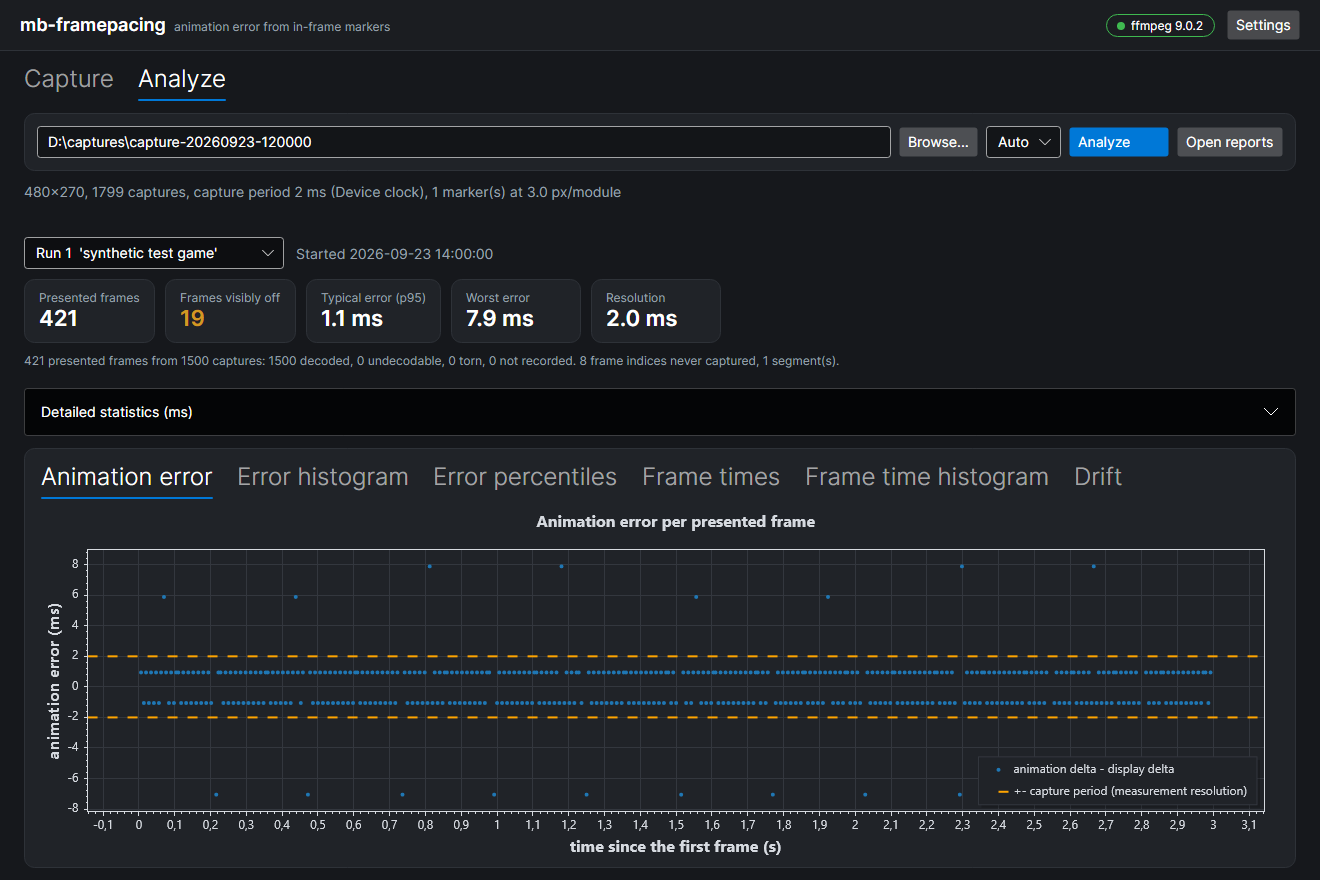
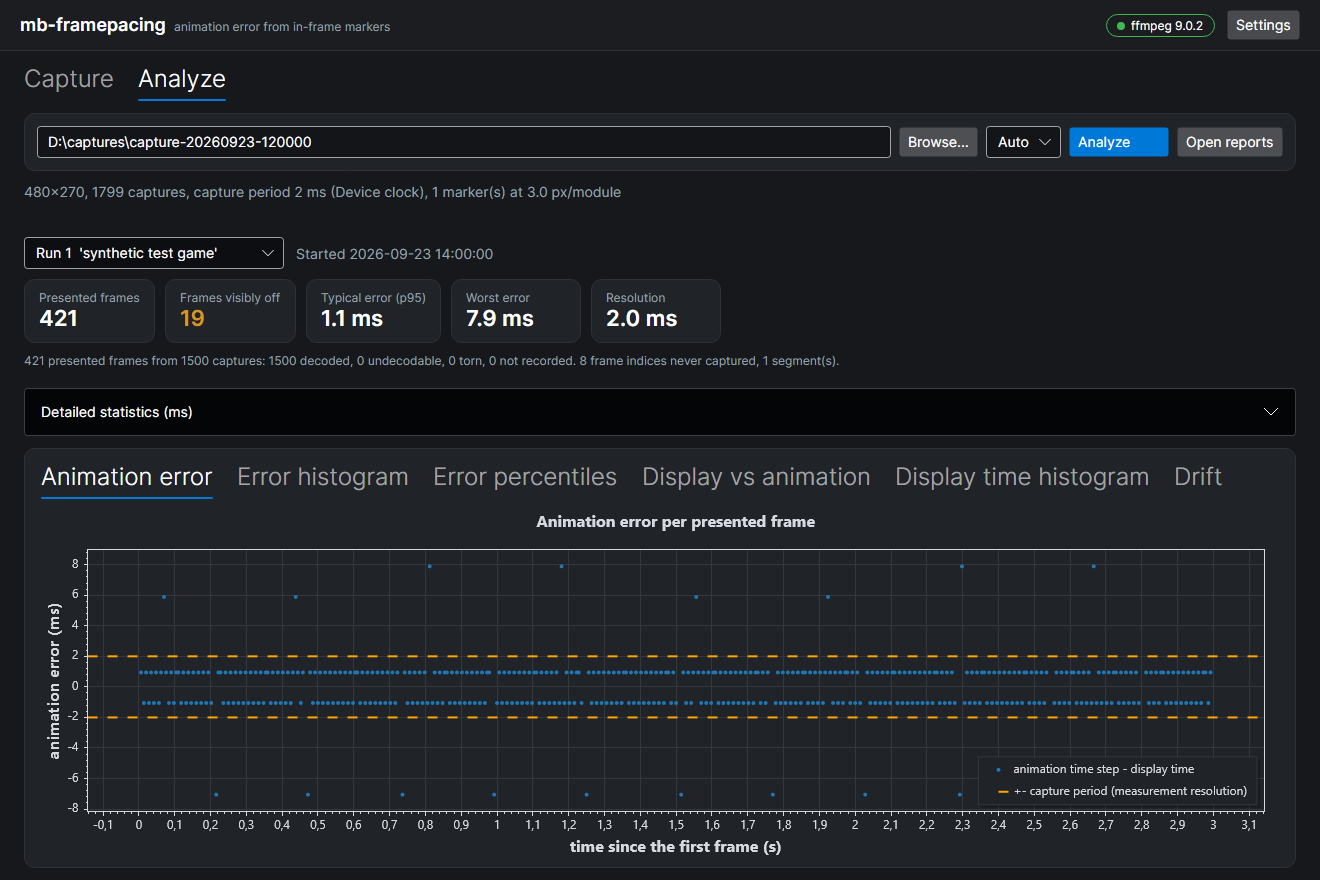
Docs and GUI: PresentMon / Gamers Nexus vocabulary
- doc/vocabulary.md maps the terms used here (animation error, animation
  time step, display time, on-screen time, ...) to their other names in
  PresentMon, Gamers Nexus, engines and video, with the sources.
- "Display delta" is now "display time" and "animation delta" is now
  "animation time step" in the GUI and the analyze table. The frame time
  histogram is now the display time histogram, because PresentMon and
  Gamers Nexus keep "frame time" for the CPU side.
- README: the two ways animation error happens (the flipbook), and a
  link to the vocabulary.

Changed region(s): [[0.497, 0.5216, 0.9318, 0.5523], [0.8076, 0.8591, 0.9008, 0.8898]]

diff --git a/measure/app/FramePacing.Gui/source/Views/AnalysisView.axaml.cs b/measure/app/FramePacing.Gui/source/Views/AnalysisView.axaml.cs
@@ -62,7 +62,7 @@ namespace MB.FramePacing.Gui.Views
         var errors = ErrorPlot.Plot.Add.Scatter(times, withMetrics.Select(f => Ms(f.AnimationErrorTicks!.Value)).ToArray());
         errors.LineWidth = 0;
         errors.MarkerSize = 4;
-        errors.LegendText = "animation delta - display delta";
+        errors.LegendText = "animation time step - display time";
         double resolution = run!.CapturePeriodMs;
         var bandColor = ScottPlot.Colors.Orange;
         var upper = ErrorPlot.Plot.Add.HorizontalLine(resolution, color: bandColor, pattern: ScottPlot.LinePattern.Dashed);
@@ -110,31 +110,36 @@ namespace MB.FramePacing.Gui.Views
       }
       Finish(ErrorPercentilePlot, plot => plot.Axes.SetLimitsX(0, 100));
 
-      // Display delta vs animation delta
-      Reset(FrameTimePlot, "Frame times", "ms");
+      // Display time vs animation time step: their difference is the animation error
+      Reset(DisplayAnimationPlot, "Display time vs animation time step", "ms");
       if (withMetrics.Length > 0)
       {
-        var display = FrameTimePlot.Plot.Add.Scatter(times, withMetrics.Select(f => Ms(f.DisplayDeltaTicks!.Value)).ToArray());
-        display.LegendText = "display delta (captured)";
+        var display = DisplayAnimationPlot.Plot.Add.Scatter(times, withMetrics.Select(f => Ms(f.DisplayDeltaTicks!.Value)).ToArray());
+        display.LegendText = "display time (captured)";
         display.MarkerSize = 3;
-        var animation = FrameTimePlot.Plot.Add.Scatter(times, withMetrics.Select(f => Ms(f.AnimationDeltaTicks!.Value)).ToArray());
-        animation.LegendText = "animation delta (marker)";
+        var animation = DisplayAnimationPlot.Plot.Add.Scatter(times, withMetrics.Select(f => Ms(f.AnimationDeltaTicks!.Value)).ToArray());
+        animation.LegendText = "animation time step (marker)";
         animation.MarkerSize = 3;
-        FrameTimePlot.Plot.ShowLegend();
+        DisplayAnimationPlot.Plot.ShowLegend();
       }
-      Finish(FrameTimePlot);
+      Finish(DisplayAnimationPlot);
 
       // How long frames stayed on screen: steady pacing is one tall bar, stutter shows up as bars at multiples of it
-      Reset(FrameTimeHistogramPlot, "Frame time distribution (captured display delta)", "presented frames (log scale)", "display delta (ms)");
+      Reset(
+        DisplayTimeHistogramPlot,
+        "Display time distribution (how long each frame stayed on screen)",
+        "presented frames (log scale)",
+        "display time (ms)"
+      );
       if (histograms != null && histograms.DisplayDeltaMs.Total > 0)
       {
-        AddLogBars(FrameTimeHistogramPlot, histograms.DisplayDeltaMs);
+        AddLogBars(DisplayTimeHistogramPlot, histograms.DisplayDeltaMs);
         double median = run!.Run.Statistics.DisplayDeltaMs.P50;
-        var line = FrameTimeHistogramPlot.Plot.Add.VerticalLine(median, color: ScottPlot.Colors.Orange, pattern: ScottPlot.LinePattern.Dashed);
+        var line = DisplayTimeHistogramPlot.Plot.Add.VerticalLine(median, color: ScottPlot.Colors.Orange, pattern: ScottPlot.LinePattern.Dashed);
         line.LegendText = $"median {median:0.##} ms";
-        FrameTimeHistogramPlot.Plot.ShowLegend();
+        DisplayTimeHistogramPlot.Plot.ShowLegend();
       }
-      Finish(FrameTimeHistogramPlot, plot => plot.Axes.SetLimitsX(0, plot.Axes.GetLimits().Right));
+      Finish(DisplayTimeHistogramPlot, plot => plot.Axes.SetLimitsX(0, plot.Axes.GetLimits().Right));
 
       // Cumulative drift
       Reset(DriftPlot, "Cumulative drift (animation time - display time)", "drift (ms)");

diff --git a/measure/app/FramePacing/source/Commands/AnalyzeCommand.cs b/measure/app/FramePacing/source/Commands/AnalyzeCommand.cs
@@ -107,8 +107,8 @@ namespace MB.FramePacing.App.Commands
           .AddColumn(new TableColumn("p99").RightAligned())
           .AddColumn(new TableColumn("max").RightAligned())
           .AddColumn(new TableColumn("stddev").RightAligned());
-        AddRow(table, "Display delta", s.DisplayDeltaMs);
-        AddRow(table, "Animation delta", s.AnimationDeltaMs);
+        AddRow(table, "Display time", s.DisplayDeltaMs);
+        AddRow(table, "Animation time step", s.AnimationDeltaMs);
         AddRow(table, "Animation error", s.AnimationErrorMs);
         AddRow(table, "|Animation error|", s.AbsoluteAnimationErrorMs);
         AddRow(table, "Drift", s.DriftMs);

diff --git a/measure/app/FramePacing.Gui/source/ViewModels/RunViewModel.cs b/measure/app/FramePacing.Gui/source/ViewModels/RunViewModel.cs
@@ -35,8 +35,8 @@ namespace MB.FramePacing.Gui.ViewModels
       ResolutionText = capturePeriodMs.ToString("0.0 'ms'", CultureInfo.InvariantCulture);
       Statistics = new List<StatisticsRow>
       {
-        StatisticsRow.From("Display delta", s.DisplayDeltaMs),
-        StatisticsRow.From("Animation delta", s.AnimationDeltaMs),
+        StatisticsRow.From("Display time", s.DisplayDeltaMs),
+        StatisticsRow.From("Animation time step", s.AnimationDeltaMs),
         StatisticsRow.From("Animation error", s.AnimationErrorMs),
         StatisticsRow.From("|Animation error|", s.AbsoluteAnimationErrorMs),
         StatisticsRow.From("Drift", s.DriftMs),

diff --git a/measure/tools/DocImages/source/Program.cs b/measure/tools/DocImages/source/Program.cs
@@ -98,7 +98,7 @@ namespace MB.FramePacing.DocImages
         {
           ("ErrorHistogramPlot", "chart-error-histogram.png"),
           ("ErrorPercentilePlot", "chart-error-percentiles.png"),
-          ("FrameTimeHistogramPlot", "chart-frame-time-histogram.png"),
+          ("DisplayTimeHistogramPlot", "chart-display-time-histogram.png"),
         }
       )
       {

diff --git a/doc/vocabulary.md b/doc/vocabulary.md
@@ -1,0 +1,58 @@
+# Vocabulary
+
+mb-framepacing uses the vocabulary of [Intel PresentMon](https://github.com/GameTechDev/PresentMon) and the
+[Gamers Nexus animation error methodology](https://gamersnexus.net/gpus-gn-extras-cpus/problem-gpu-benchmarks-reality-vs-numbers-animation-error-methodology-white),
+which this project builds on. The same ideas go by other names in engines, platform libraries and older GPU reviews. The table
+maps them, so a number from mb-framepacing can be compared with the others.
+
+## Terms
+
+| Term (as used here)     | Meaning                                                                                                                                                                                                                  | Other names                                                                                                                                                                    | Origin                                                                                                                                                                                                                                                           | In mb-framepacing                                                                              |
+| ----------------------- | ------------------------------------------------------------------------------------------------------------------------------------------------------------------------------------------------------------------------ | ------------------------------------------------------------------------------------------------------------------------------------------------------------------------------ | ---------------------------------------------------------------------------------------------------------------------------------------------------------------------------------------------------------------------------------------------------------------- | ---------------------------------------------------------------------------------------------- |
+| **Animation error**     | How far the animation time advanced between two frames shown one after the other, minus how long the first of them was on screen. Positive: shown too soon (moved too far). Negative: shown too late (moved too little). | Simulation time error (Intel's earlier name); `MsAnimationError` (PresentMon CSV)                                                                                              | [PresentMon](https://github.com/GameTechDev/PresentMon/blob/main/README-ConsoleApplication.md#csv-columns); explained by [Gamers Nexus](https://gamersnexus.net/gpus-gn-extras-cpus/problem-gpu-benchmarks-reality-vs-numbers-animation-error-methodology-white) | `animationErrorMs` (CSV), the Analyze page's error charts. Same formula and sign as PresentMon |
+| **Animation time**      | The moment of game time a frame shows, "the world at 12.345 s".                                                                                                                                                          | Simulation time, game time, animation timer; `AnimationTime` (PresentMon: usually the CPU start of the frame, or its simulation start with Reflex, XeLL or Anti-Lag 2)         | PresentMon, Gamers Nexus                                                                                                                                                                                                                                         | Written into the marker by the application (`animationTicks`); `animationMs` (CSV)             |
+| **Animation time step** | How far the animation time advanced from one shown frame to the next.                                                                                                                                                    | Delta time, `Time.deltaTime` (Unity), timestep, CPU delta (PresentMon: "the previous frame's CPU delta")                                                                       | Engines ([Unity](https://unity.com/blog/engine-platform/fixing-time-deltatime-in-unity-2020-2-for-smoother-gameplay)), PresentMon                                                                                                                                | `animationDeltaMs` (CSV)                                                                       |
+| **Display time**        | How long the previous frame stayed on screen before this one appeared.                                                                                                                                                   | Display delta, `MsBetweenDisplayChange` (PresentMon), display frame time. Overlays often call it "frame time", which PresentMon and Gamers Nexus keep for the CPU side (below) | PresentMon, Gamers Nexus                                                                                                                                                                                                                                         | `displayDeltaMs` (CSV), the display time histogram                                             |
+| **On-screen time**      | How long this frame stayed on screen.                                                                                                                                                                                    | `DisplayedTime` (PresentMon)                                                                                                                                                   | PresentMon                                                                                                                                                                                                                                                       | `onScreenMs` (CSV)                                                                             |
+| **Frametime**           | The time from the CPU starting one frame to starting the next: the application side, not the display.                                                                                                                    | `MsBetweenAppStart`, `MsBetweenPresents` (PresentMon, present to present), frame time, CPU frame time                                                                          | PresentMon, Gamers Nexus                                                                                                                                                                                                                                         | Not measured: the capture sees the display side; the animation time step stands in             |
+| **Frame pacing**        | How evenly frames reach the screen.                                                                                                                                                                                      | Frame delivery, cadence. The [Android Frame Pacing library](https://developer.android.com/games/sdk/frame-pacing) (Swappy) uses it for syncing the render loop to the display  | Common usage; Android                                                                                                                                                                                                                                            | The display time histogram                                                                     |
+| **Stutter**             | What the eye sees: motion that suddenly speeds up or slows down.                                                                                                                                                         | Judder, jerkiness, hitching                                                                                                                                                    | Common usage; Gamers Nexus describe it as visible acceleration or deceleration                                                                                                                                                                                   | Large animation errors                                                                         |
+| **Hitch**               | A single, severe frametime spike.                                                                                                                                                                                        | Spike, long frame                                                                                                                                                              | Unreal Engine (`t.HitchFrameTimeThreshold`, see [Intel's Unreal Engine guide](https://www.intel.com/content/www/us/en/developer/articles/technical/unreal-engine-optimization-profiling-fundamentals.html)), Gamers Nexus                                        | A frame with a long display time and a large negative animation error                          |
+| **Short / long frame**  | A frame shown sooner or later than the display rhythm expects. Short frames followed by long frames are seen as stutter.                                                                                                 | Frame shown too soon / too late                                                                                                                                                | [Android Frame Pacing library](https://developer.android.com/games/sdk/frame-pacing)                                                                                                                                                                             | Positive / negative animation error                                                            |
+| **Delta time jitter**   | The engine's measured delta time varies while frames reach the screen evenly, so motion shakes slightly at a steady frame rate.                                                                                          | Timestep jitter, inconsistent `Time.deltaTime`                                                                                                                                 | [Unity 2020.2](https://unity.com/blog/engine-platform/fixing-time-deltatime-in-unity-2020-2-for-smoother-gameplay)                                                                                                                                               | Animation errors while the display time is even                                                |
+| **Microstutter**        | Uneven frame delivery while the average frame rate looks fine. The term comes from multi-GPU (SLI/CrossFire) alternate frame rendering, with its "runt frames".                                                          | Micro stuttering, micro-stutter; uneven frame pacing                                                                                                                           | Multi-GPU era; [Wikipedia](https://en.wikipedia.org/wiki/Micro_stuttering), Gamers Nexus                                                                                                                                                                         | Display time spread plus alternating animation errors                                          |
+| **Runt frame**          | A frame shown for only a sliver of a refresh, so it hardly counts for the eye while raising the frame rate.                                                                                                              | Partial frame                                                                                                                                                                  | Multi-GPU testing; Gamers Nexus                                                                                                                                                                                                                                  | Torn frames (the tearing check)                                                                |
+| **Judder**              | Uneven display durations for content moving at a constant speed; also the jiggle in VR when frames miss the display.                                                                                                     | Stutter; pulldown judder (24p on 60 Hz)                                                                                                                                        | Video and film; VR ([Meta: Asynchronous Timewarp](https://developers.meta.com/horizon/blog/asynchronous-timewarp-on-oculus-rift/)); [Fora Soft](https://www.forasoft.com/learn/video-quality/articles-vqm/judder-stutter-frame-rate-artifacts)                   | Shows as a display time spread                                                                 |
+| **Dropped frame**       | A frame that was rendered but never shown.                                                                                                                                                                               | Skipped frame; PresentMon reports `DisplayedTime` as "NA"                                                                                                                      | Common usage; PresentMon                                                                                                                                                                                                                                         | `skippedBefore` (CSV), counted in the report                                                   |
+| **Drift**               | The difference between animation time and display time, accumulated over the run.                                                                                                                                        | Related: rubber-banding (Gamers Nexus: motion that stalls, then jumps ahead)                                                                                                   | mb-framepacing                                                                                                                                                                                                                                                   | `driftMs` (CSV), the Drift chart                                                               |
+
+## The two ways animation error happens
+
+Gamers Nexus explain it with a flipbook:
+
+| Case                                                                                  | Flipbook                                        | Typical cause                                                                                  |
+| ------------------------------------------------------------------------------------- | ----------------------------------------------- | ---------------------------------------------------------------------------------------------- |
+| Frames reach the screen evenly, but the **animation time** advances unevenly          | Unevenly drawn pages, flipped at a steady tempo | Delta time jitter: the engine samples its clock at an uneven point in the frame                |
+| The animation time advances evenly, but frames reach the screen unevenly (**pacing**) | Evenly drawn pages, flipped at an uneven tempo  | A frame over its budget shows a refresh late (a hitch); one submitted too early shows too soon |
+
+Both give the same kind of number: how far each frame's motion is off from the time it was actually on screen.
+
+## Further reading
+
+- [The Problem with GPU Benchmarks: Animation Error Methodology White Paper](https://gamersnexus.net/gpus-gn-extras-cpus/problem-gpu-benchmarks-reality-vs-numbers-animation-error-methodology-white)
+  (Gamers Nexus, [video](https://www.youtube.com/watch?v=qDnXe6N8h_c))
+- [FPS Benchmarks Are Flawed: Introducing Animation Error](https://gamersnexus.net/gpus-cpus-deep-dive/fps-benchmarks-are-flawed-introducing-animation-error-engineering-discussion)
+  (Gamers Nexus, engineering discussion with Intel)
+- [PresentMon](https://github.com/GameTechDev/PresentMon): [CSV columns](https://github.com/GameTechDev/PresentMon/blob/main/README-ConsoleApplication.md#csv-columns),
+  [releases](https://github.com/GameTechDev/PresentMon/releases),
+  [animation error experiment app (issue #580)](https://github.com/GameTechDev/PresentMon/issues/580),
+  [Intel PresentMon](https://game.intel.com/story/intel-presentmon/)
+- [Fixing Time.deltaTime in Unity 2020.2 for smoother gameplay](https://unity.com/blog/engine-platform/fixing-time-deltatime-in-unity-2020-2-for-smoother-gameplay)
+  (Unity)
+- [Frame Pacing library](https://developer.android.com/games/sdk/frame-pacing) (Android)
+- [Unreal Engine Optimization Guide: Profiling Fundamentals](https://www.intel.com/content/www/us/en/developer/articles/technical/unreal-engine-optimization-profiling-fundamentals.html)
+  (Intel; hitches)
+- [Micro stuttering](https://en.wikipedia.org/wiki/Micro_stuttering) (Wikipedia)
+- [Asynchronous Timewarp on Oculus Rift](https://developers.meta.com/horizon/blog/asynchronous-timewarp-on-oculus-rift/) (Meta; judder in VR)
+- [What Is Judder? Stutter and Frame-Rate Artifacts](https://www.forasoft.com/learn/video-quality/articles-vqm/judder-stutter-frame-rate-artifacts)
+  (Fora Soft)

diff --git a/README.md b/README.md
@@ -41,6 +41,13 @@ When these disagree, the eye sees stutter even though the frame counter looks fi
 animated as if it were on time jumps too little; the next one jumps too much. That mismatch is the **animation error**, and it is
 invisible to in-game counters, because the game only knows when it _submitted_ a frame, not when the display _showed_ it.
 
+It happens in two ways, which Gamers Nexus compare to a flipbook:
+
+- **Uneven pacing:** evenly drawn pages flipped at an uneven tempo. The animation time advances evenly, but frames reach the
+  screen unevenly, for example a frame over its budget that shows a refresh late (a hitch).
+- **Uneven animation time:** unevenly drawn pages flipped at a steady tempo. Frames reach the screen evenly, but the animation
+  time advances unevenly, for example when the engine's delta time jitters.
+
 mb-framepacing measures it from the outside, on the real video signal. For every two frames shown one after the other:
 
 > **animation error** = how far the **animation timer** (written by the application) advanced − how much time actually passed
@@ -63,7 +70,8 @@ as long, torn frames, and the overall drift between the game's clock and the dis
 [Intel PresentMon](https://game.intel.com/story/intel-presentmon/)); positive: shown too soon, negative: shown too late.
 The difference is where the numbers come from. The application writes its exact animation time into each frame, instead of it
 being estimated. The display time comes from the captured video signal, instead of software flip events, and is precise to one
-capture period.
+capture period. **[Vocabulary](doc/vocabulary.md)** maps the terms used here to their other names (PresentMon, Gamers Nexus,
+Unity, Unreal, Android, video) and links the articles they come from.
 
 ![The Analyze page: every presented frame, its animation error and the headline numbers](doc/images/gui-analysis.png)
 
@@ -90,7 +98,7 @@ flowchart LR
     D --> E["mb-framepacing<br/>capture / import"]
     E --> F[("frames.mbfc<br/>every captured frame + its time")]
     F --> G["mb-framepacing analyze"]
-    G --> H["Animation error, frame times,<br/>drops, tearing: GUI, CSV, JSON"]
+    G --> H["Animation error, display times,<br/>drops, tearing: GUI, CSV, JSON"]
 ```
 
 ![A marker drawn into a game frame at the recommended position](doc/images/marker-in-frame.png)
@@ -138,7 +146,7 @@ sequenceDiagram
     App->>Card: END marker (a few capture frames)
     Card->>Tool: END seen, stop
     Tool->>Tool: compare each frame's animation time (from the marker) with its capture time
-    Tool->>You: report: animation error, frame times, drops, tearing
+    Tool->>You: report: animation error, display times, drops, tearing
 ```
 
 1. Connect the application's display output through a capture card (it passes the signal on to your monitor). The recording
@@ -200,14 +208,15 @@ Besides the per-frame charts over time, the Analyze page shows how the values ar
 synthetic test game (about 144 fps with injected stalls and skipped frames) captured at 500 fps. The count axes are
 logarithmic, so a handful of bad frames stays visible next to hundreds of good ones.
 
-| Animation error distribution                                       | Frame time distribution                                            |
-| ------------------------------------------------------------------ | ------------------------------------------------------------------ |
-| ![Animation error histogram](doc/images/chart-error-histogram.png) | ![Frame time histogram](doc/images/chart-frame-time-histogram.png) |
+| Animation error distribution                                       | Display time distribution                                              |
+| ------------------------------------------------------------------ | ---------------------------------------------------------------------- |
+| ![Animation error histogram](doc/images/chart-error-histogram.png) | ![Display time histogram](doc/images/chart-display-time-histogram.png) |
 
 - **Animation error distribution:** how often each error occurred. Each bar is one capture period wide, because that is the
   measurement resolution. Everything between the dashed lines is within ±1 capture period and cannot be told apart from 0. Bars
   further out are real errors: positive = shown too soon (moved too far), negative = shown too late (moved too little).
-- **Frame time distribution:** how long frames stayed on screen. Even pacing is one tall bar. Separate bars further right (often at
+- **Display time distribution:** how long frames stayed on screen (PresentMon's `MsBetweenDisplayChange`; overlays often call
+  this "frame time"). Even pacing is one tall bar. Separate bars further right (often at
   multiples of the refresh period) are frames that stayed on screen too long.
 - **Animation error by percentile:** every frame's absolute error, sorted. The flat part is the typical frame; the rise on the
   right shows how bad the worst 5 % and 1 % are, and makes two runs easy to compare.
